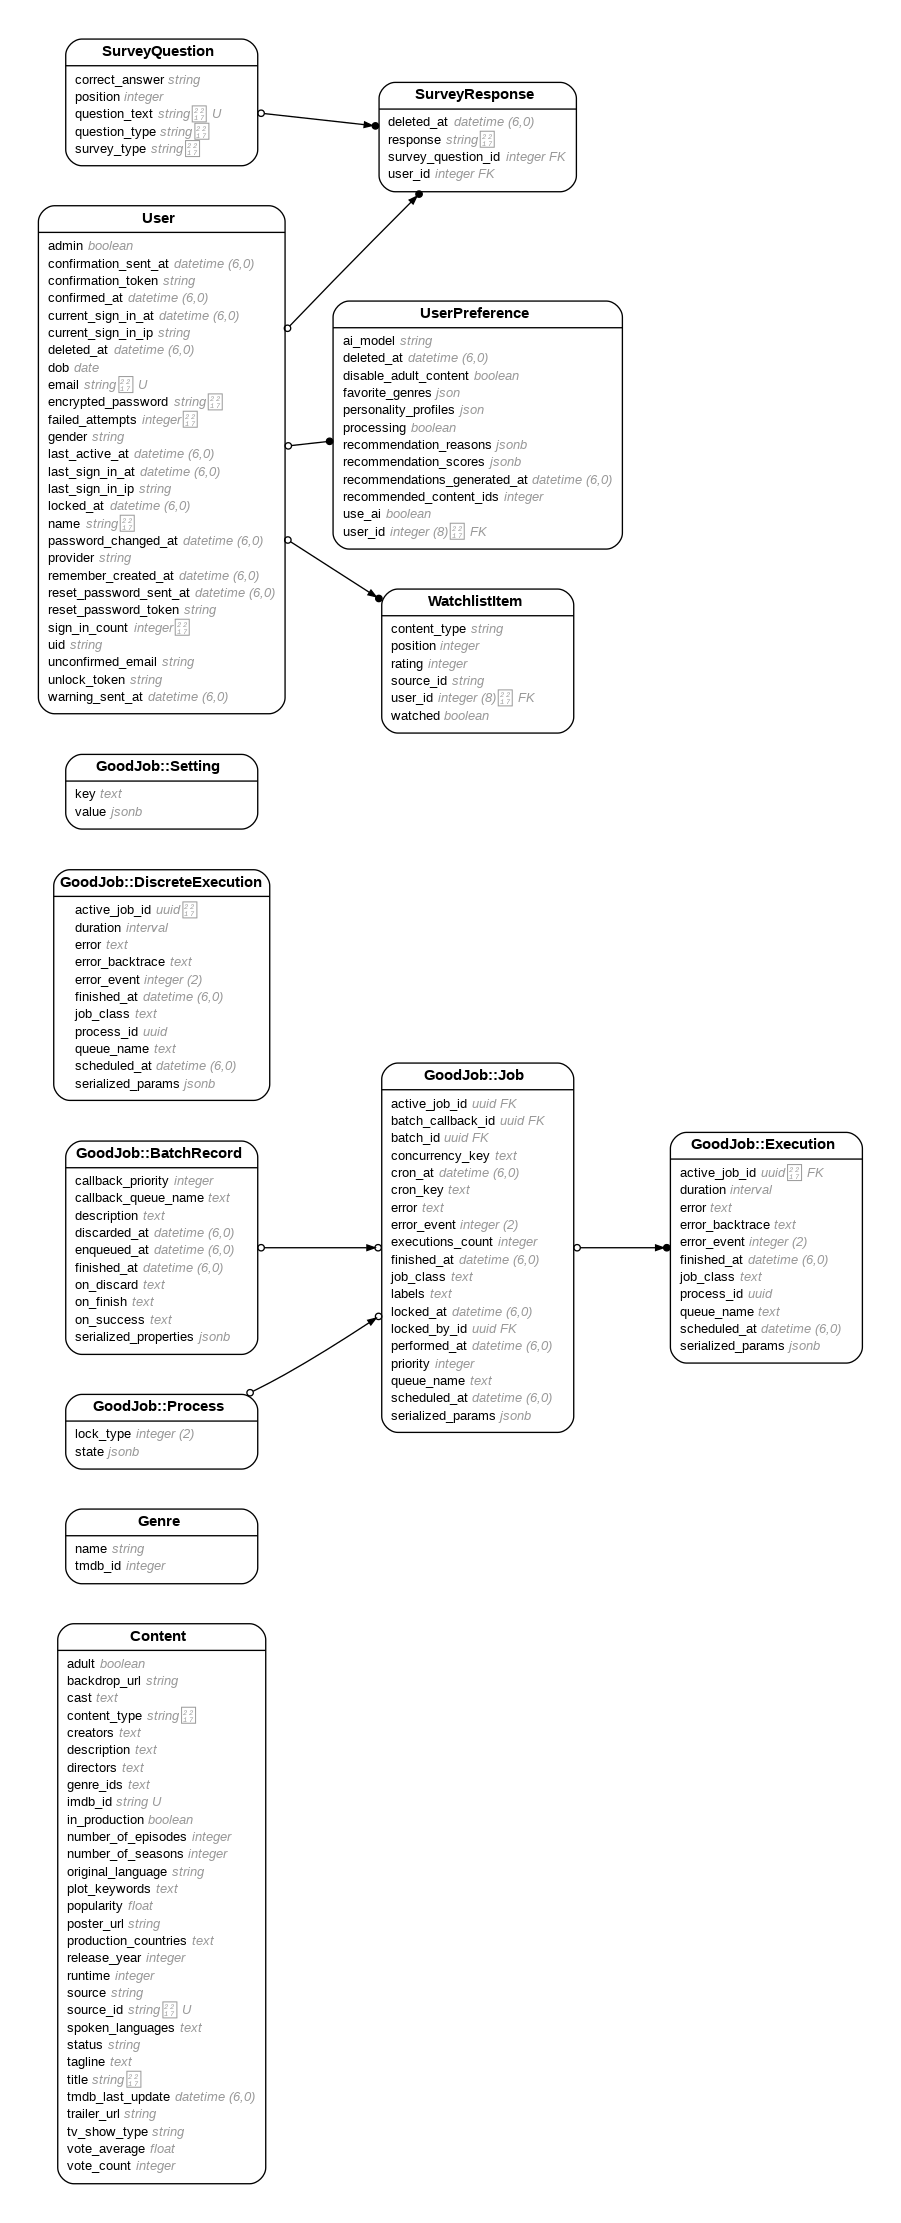
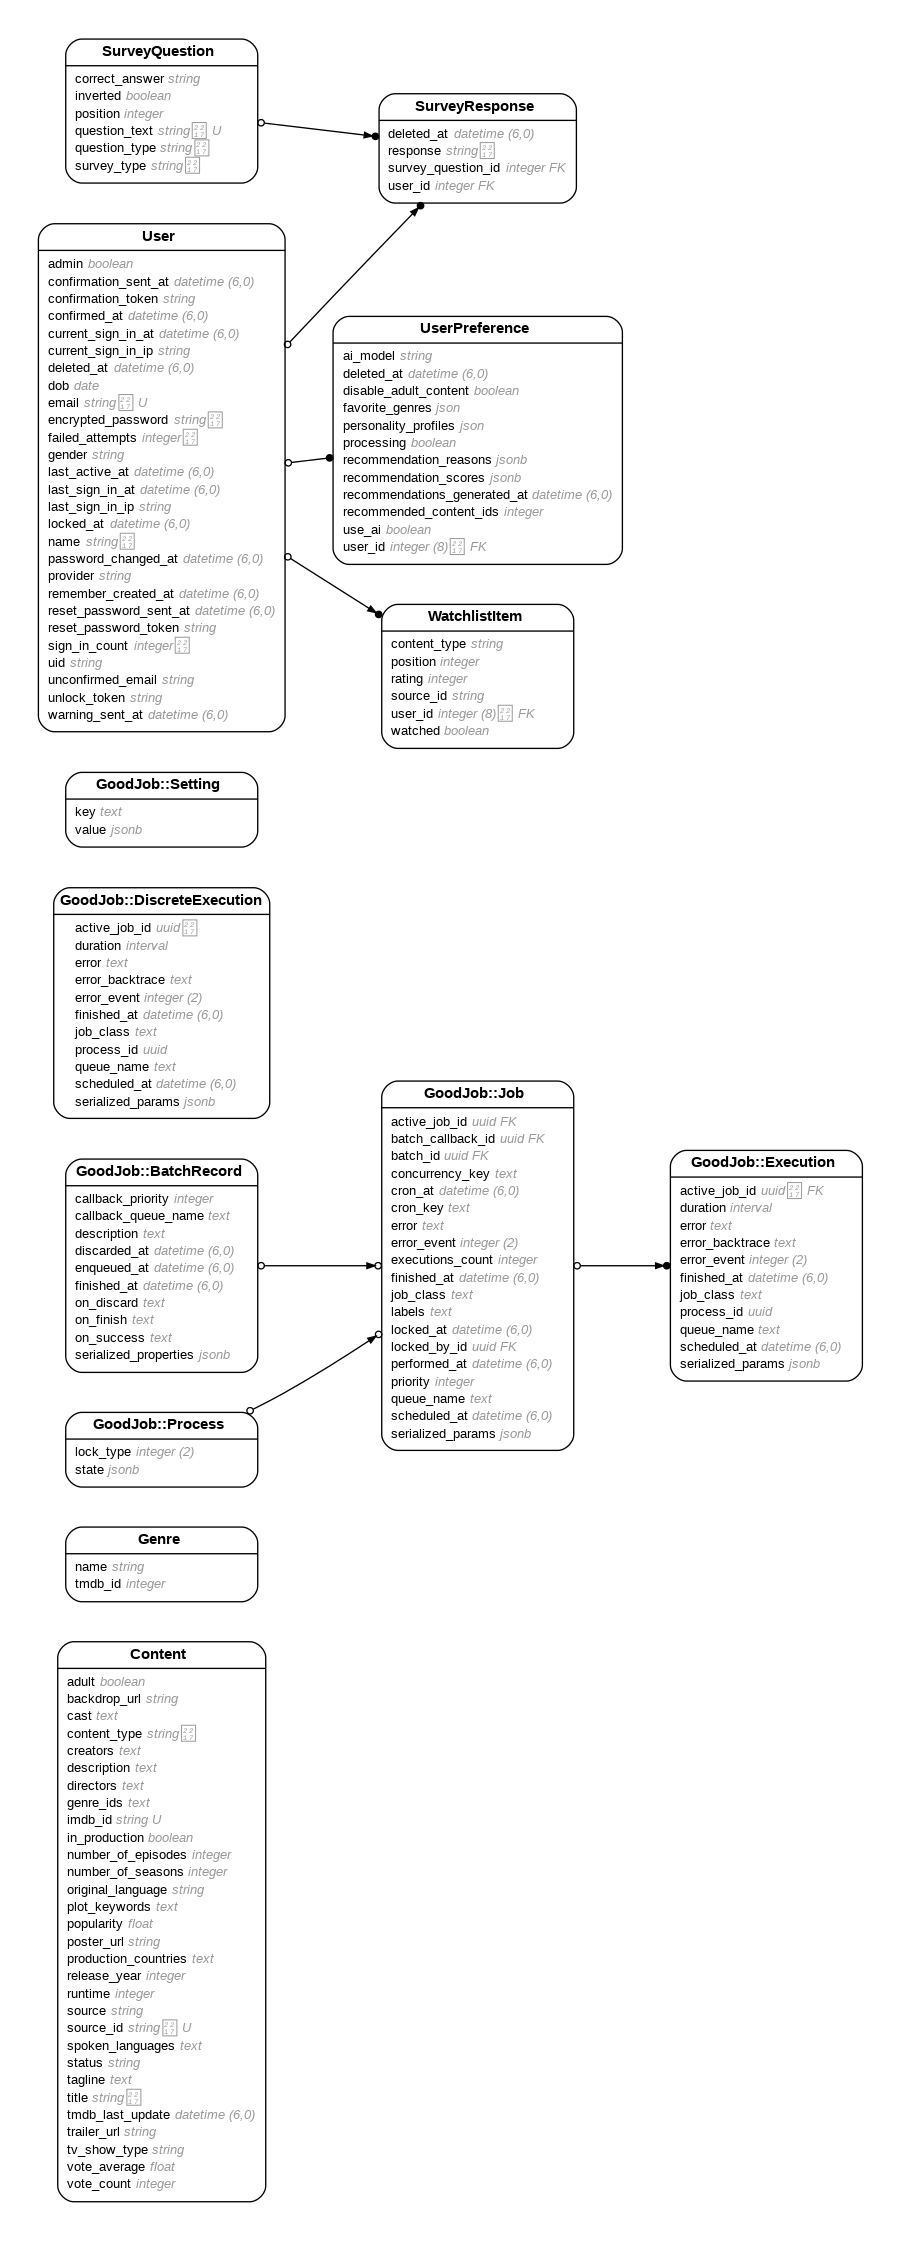
establish boolean column for inverted questions

diff --git a/db/schema.rb b/db/schema.rb
@@ -10,7 +10,7 @@
 #
 # It's strongly recommended that you check this file into your version control system.
 
-ActiveRecord::Schema[7.1].define(version: 2025_03_11_140858) do
+ActiveRecord::Schema[7.1].define(version: 2025_03_11_234423) do
   # These are extensions that must be enabled in order to support this database
   enable_extension "pg_trgm"
   enable_extension "pgcrypto"
@@ -172,6 +172,7 @@ ActiveRecord::Schema[7.1].define(version: 2025_03_11_140858) do
     t.string "survey_type"
     t.string "correct_answer"
     t.integer "position"
+    t.boolean "inverted", default: false
     t.index ["survey_type"], name: "index_survey_questions_on_survey_type"
   end
 

diff --git a/app/models/survey_question.rb b/app/models/survey_question.rb
@@ -6,6 +6,7 @@
 #
 #  id             :bigint           not null, primary key
 #  correct_answer :string
+#  inverted       :boolean          default(FALSE)
 #  position       :integer
 #  question_text  :string
 #  question_type  :string

diff --git a/db/migrate/20250311234423_add_inverted_to_survey_questions.rb b/db/migrate/20250311234423_add_inverted_to_survey_questions.rb
@@ -1,0 +1,5 @@
+class AddInvertedToSurveyQuestions < ActiveRecord::Migration[7.1]
+  def change
+    add_column :survey_questions, :inverted, :boolean, default: false
+  end
+end
